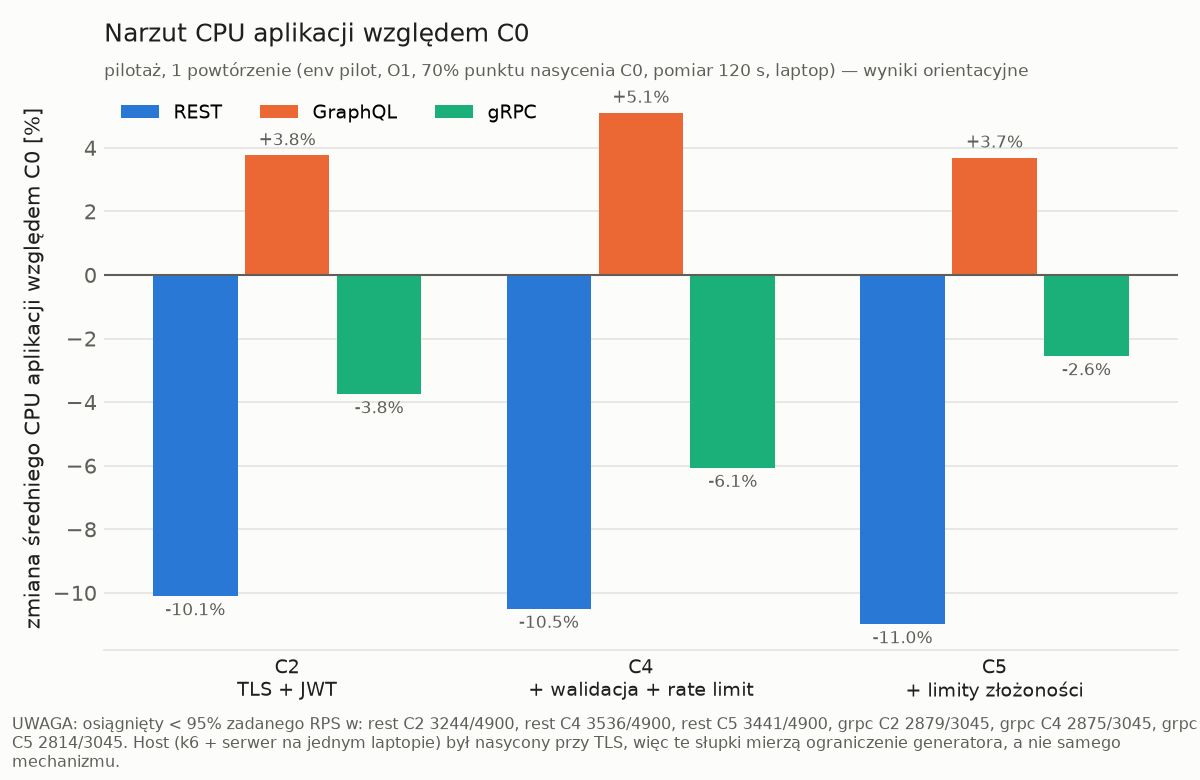
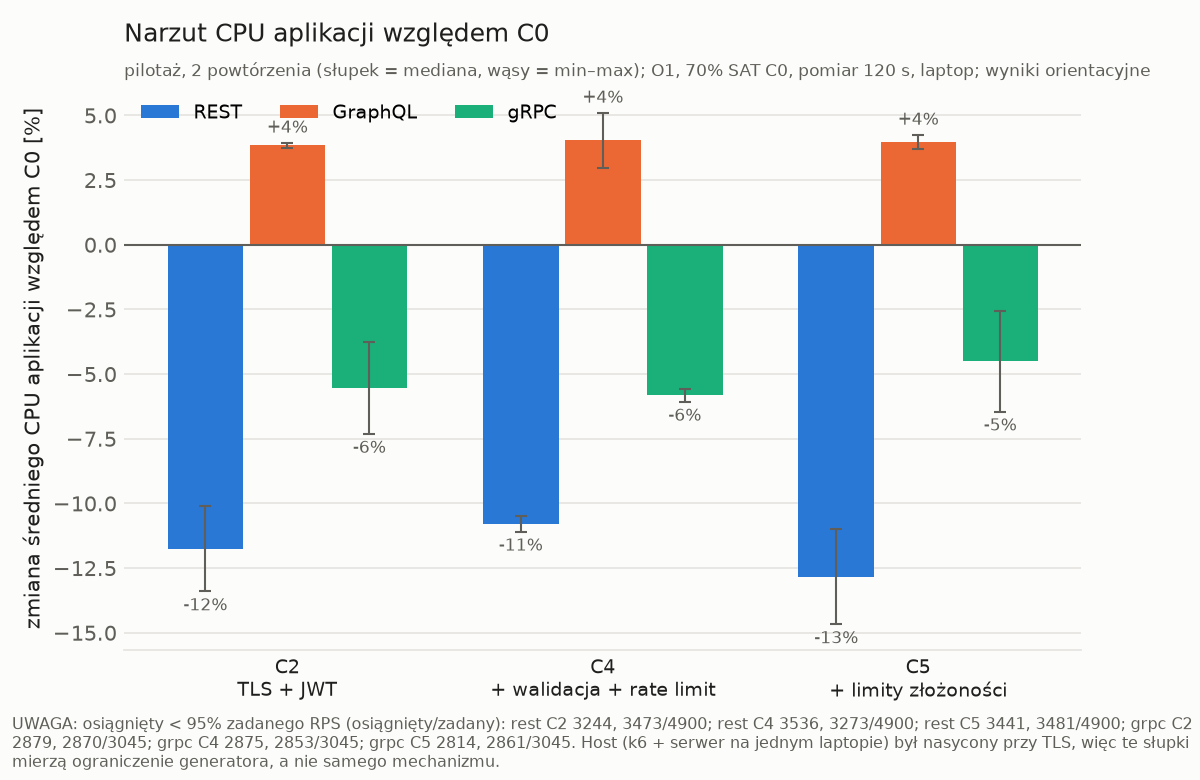
analysis: pilot_table i plot_pilot obsługują wiele powtórzeń
pilot_table.py: kolumna rep, narzut względem C0 tego samego interfejsu i
powtórzenia, CPU hosta z _meta.json. plot_pilot.py: słupek = mediana z
powtórzeń, wąsy = min-max, etykiety nad wąsami, zwięzły przypis.

diff --git a/analysis/pilot_table.py b/analysis/pilot_table.py
@@ -1,4 +1,4 @@
-"""Tabela pilotażu A2: RPS, p50/p95/p99, błędy, CPU/RAM aplikacji w fazie pomiaru, narzut względem C0.
+"""Tabela pilotażu A2 (także wiele powtórzeń; narzut względem C0 tego samego powtórzenia): RPS, p50/p95/p99, błędy, CPU/RAM aplikacji w fazie pomiaru, narzut względem C0.
 
 Użycie: ~/venv-thesis/bin/python analysis/pilot_table.py [env=pilot]
 Wynik: results/<env>/pilot_summary.csv i results/<env>/pilot_summary.md
@@ -51,28 +51,30 @@ def main(env="pilot"):
         pts = load_points(base + "_points.csv.gz")
         st = _stats(_window(pts, W, W + D, "measure"), "m")
         start = datetime.fromisoformat(meta["start"]).timestamp()
-        row = {"iface": meta["iface"], "config": meta["config"], "rate": meta["rate"], "k6_exit": meta["k6_exit"],
+        row = {"iface": meta["iface"], "config": meta["config"], "rep": meta["rep"], "rate": meta["rate"], "k6_exit": meta["k6_exit"],
+               "host_cpu_mean": meta.get("host_cpu_busy_mean"), "host_cpu_max": meta.get("host_cpu_busy_max"),
                "oom": meta["oom_killed"], "rps": st["m_n"] / D, "p50_ms": st["m_p50"], "p95_ms": st["m_p95"],
                "p99_ms": st["m_p99"], "err_pct": (1 - st["m_ok_share"]) * 100, "n": st["m_n"]}
         row.update(resources_window(Path(base + "_resources.csv"), start + W, start + W + D))
         rows.append(row)
     df = pd.DataFrame(rows)
+    # narzut względem C0 tego samego interfejsu i tego samego powtórzenia
     for col, out in (("p95_ms", "p95_vs_C0_pct"), ("cpu_mean", "cpu_vs_C0_pct")):
-        c0 = df[df["config"] == "C0"].set_index("iface")[col]
-        df[out] = df.apply(lambda r: (r[col] / c0.get(r["iface"], np.nan) - 1) * 100, axis=1)
+        c0 = df[df["config"] == "C0"].set_index(["iface", "rep"])[col]
+        df[out] = df.apply(lambda r: (r[col] / c0.get((r["iface"], r["rep"]), np.nan) - 1) * 100, axis=1)
     df["iface"] = pd.Categorical(df["iface"], IFACES, ordered=True)
     df["config"] = pd.Categorical(df["config"], CFGS, ordered=True)
-    df = df.sort_values(["iface", "config"]).reset_index(drop=True)
+    df = df.sort_values(["iface", "config", "rep"]).reset_index(drop=True)
     out = Path(RESULTS, env)
     df.to_csv(out / "pilot_summary.csv", index=False)
 
     fmt = lambda v, d=2: "—" if pd.isna(v) else f"{v:.{d}f}"  # noqa: E731
-    lines = ["| interfejs | konf. | zadany RPS | osiągnięty RPS | p50 [ms] | p95 [ms] | p99 [ms] | błędy [%] | CPU śr. [%] | CPU max [%] | RAM śr. [MiB] | RAM max [MiB] | p95 vs C0 [%] | CPU vs C0 [%] |",
-             "|---|---|---|---|---|---|---|---|---|---|---|---|---|---|"]
+    lines = ["| interfejs | konf. | powt. | zadany RPS | osiągnięty RPS | p50 [ms] | p95 [ms] | p99 [ms] | błędy [%] | CPU śr. [%] | CPU max [%] | RAM śr. [MiB] | RAM max [MiB] | p95 vs C0 [%] | CPU vs C0 [%] | CPU hosta śr./max [%] |",
+             "|---|---|---|---|---|---|---|---|---|---|---|---|---|---|---|---|"]
     for _, r in df.iterrows():
-        lines.append(f"| {r.iface} | {r.config} | {r.rate} | {fmt(r.rps, 1)} | {fmt(r.p50_ms)} | {fmt(r.p95_ms)} | {fmt(r.p99_ms)} | "
+        lines.append(f"| {r.iface} | {r.config} | {r.rep} | {r.rate} | {fmt(r.rps, 1)} | {fmt(r.p50_ms)} | {fmt(r.p95_ms)} | {fmt(r.p99_ms)} | "
                      f"{fmt(r.err_pct, 3)} | {fmt(r.cpu_mean, 1)} | {fmt(r.cpu_max, 1)} | {fmt(r.mem_mean_mib, 1)} | {fmt(r.mem_max_mib, 1)} | "
-                     f"{'—' if r.config == 'C0' else fmt(r.p95_vs_C0_pct, 1)} | {'—' if r.config == 'C0' else fmt(r.cpu_vs_C0_pct, 1)} |")
+                     f"{'—' if r.config == 'C0' else fmt(r.p95_vs_C0_pct, 1)} | {'—' if r.config == 'C0' else fmt(r.cpu_vs_C0_pct, 1)} | {fmt(r.host_cpu_mean, 1)}/{fmt(r.host_cpu_max, 0)} |")
     (out / "pilot_summary.md").write_text("\n".join(lines) + "\n")
     print("\n".join(lines))
     print(f"\nPróbki docker stats w oknie pomiaru: min {df.res_samples.min()}, max {df.res_samples.max()}; "

diff --git a/analysis/plot_pilot.py b/analysis/plot_pilot.py
@@ -31,13 +31,19 @@ def grouped(df, col, ylabel, title, fname, env, note=""):
     x = np.arange(len(CFGS))
     width = 0.26
     for k, (iface, label) in enumerate(IFACES):
-        vals = [df.loc[(df.iface == iface) & (df.config == c), col].squeeze() if ((df.iface == iface) & (df.config == c)).any() else np.nan
-                for c in CFGS]
+        # słupek = mediana z powtórzeń, wąsy = min-max (przy 1 powtórzeniu bez wąsów)
+        sel = [df.loc[(df.iface == iface) & (df.config == c), col].dropna() for c in CFGS]
+        vals = [v.median() if len(v) else np.nan for v in sel]
+        lo = [m - v.min() if len(v) > 1 else 0 for m, v in zip(vals, sel)]
+        hi = [v.max() - m if len(v) > 1 else 0 for m, v in zip(vals, sel)]
         xs = x + (k - 1) * width
         bars = ax.bar(xs, vals, width * 0.92, color=COLORS[iface], label=label, zorder=3)
-        for b, v in zip(bars, vals):
+        if any(lo) or any(hi):
+            ax.errorbar(xs, vals, yerr=[lo, hi], fmt="none", ecolor=INK2, elinewidth=1, capsize=3, zorder=4)
+        for b, v, h, l in zip(bars, vals, hi, lo):
             if np.isfinite(v):
-                ax.annotate(f"{v:+.1f}%", (b.get_x() + b.get_width() / 2, v), xytext=(0, 3 if v >= 0 else -3),
+                y = v + h if v >= 0 else v - l  # etykieta nad wąsem, żeby się nie nakładały
+                ax.annotate(f"{v:+.0f}%", (b.get_x() + b.get_width() / 2, y), xytext=(0, 3 if v >= 0 else -3),
                             textcoords="offset points", ha="center", va="bottom" if v >= 0 else "top", fontsize=8, color=INK2)
     ax.axhline(0, color=INK2, linewidth=1, zorder=4)
     ax.set_xticks(x, [CFG_LABEL[c] for c in CFGS], fontsize=9, color=INK)
@@ -51,7 +57,9 @@ def grouped(df, col, ylabel, title, fname, env, note=""):
     ax.tick_params(axis="x", length=0)
     ax.legend(frameon=False, ncol=3, loc="upper left", fontsize=9)
     ax.set_title(title, loc="left", fontsize=12, color=INK, pad=22)
-    ax.text(0, 1.02, f"pilotaż, 1 powtórzenie (env {env}, O1, 70% punktu nasycenia C0, pomiar 120 s, laptop) — wyniki orientacyjne",
+    nrep = int(df.groupby(["iface", "config"]).size().max())
+    reps_txt = "1 powtórzenie" if nrep == 1 else f"{nrep} powtórzenia (słupek = mediana, wąsy = min–max)"
+    ax.text(0, 1.02, f"pilotaż, {reps_txt}; O1, 70% SAT C0, pomiar 120 s, laptop; wyniki orientacyjne",
             transform=ax.transAxes, fontsize=8, color=INK2)
     if note:
         fig.text(0.01, 0.01, note, fontsize=7.5, color=INK2, ha="left", va="bottom", wrap=True)
@@ -66,9 +74,10 @@ def shortfall_note(df):
     low = df[df.rps < 0.95 * df.rate]
     if low.empty:
         return ""
-    parts = [f"{r.iface} {r.config} {r.rps:.0f}/{r.rate}" for r in low.itertuples()]
-    return ("UWAGA: osiągnięty < 95% zadanego RPS w: " + ", ".join(parts) + ". Host (k6 + serwer na jednym laptopie) "
-            "był nasycony przy TLS, więc te słupki mierzą ograniczenie generatora, a nie samego mechanizmu.")
+    parts = [f"{i} {c} " + ", ".join(f"{v:.0f}" for v in g.rps) + f"/{g.rate.iloc[0]}"
+             for (i, c), g in low.groupby(["iface", "config"], sort=False)]
+    return ("UWAGA: osiągnięty < 95% zadanego RPS (osiągnięty/zadany): " + "; ".join(parts) + ". Host (k6 + serwer na jednym "
+            "laptopie) był nasycony przy TLS, więc te słupki mierzą ograniczenie generatora, a nie samego mechanizmu.")
 
 
 def main(env="pilot"):
